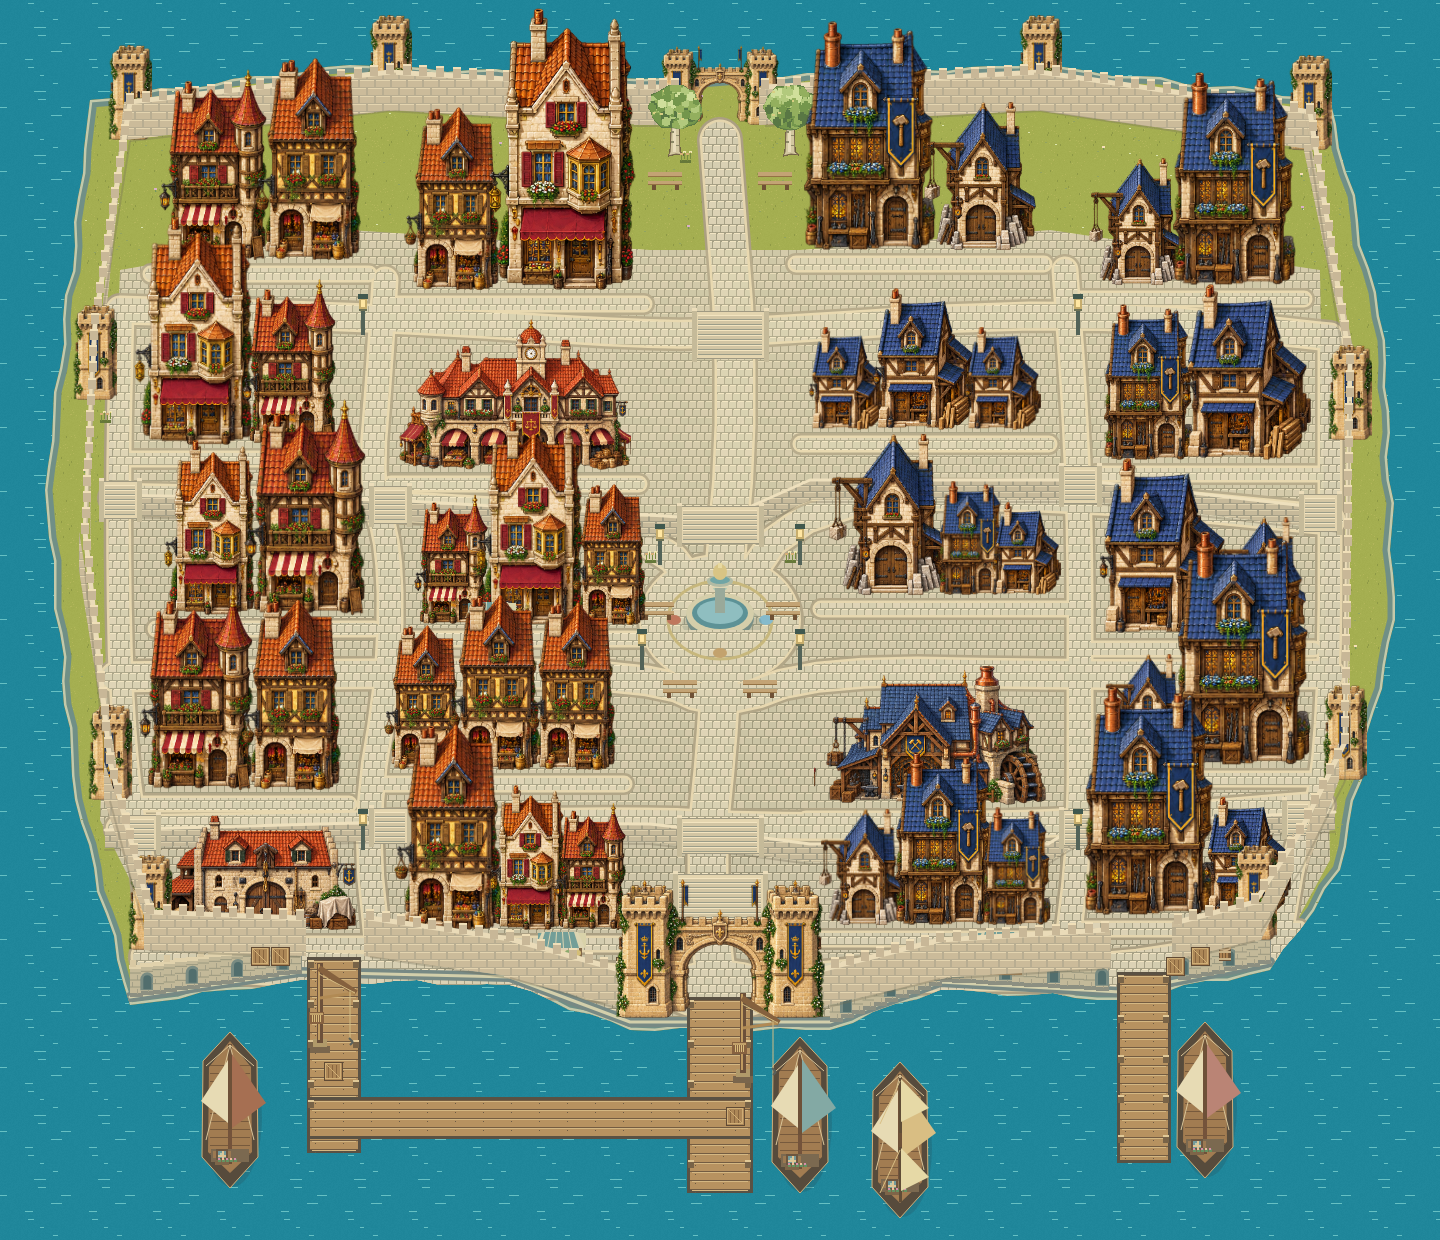
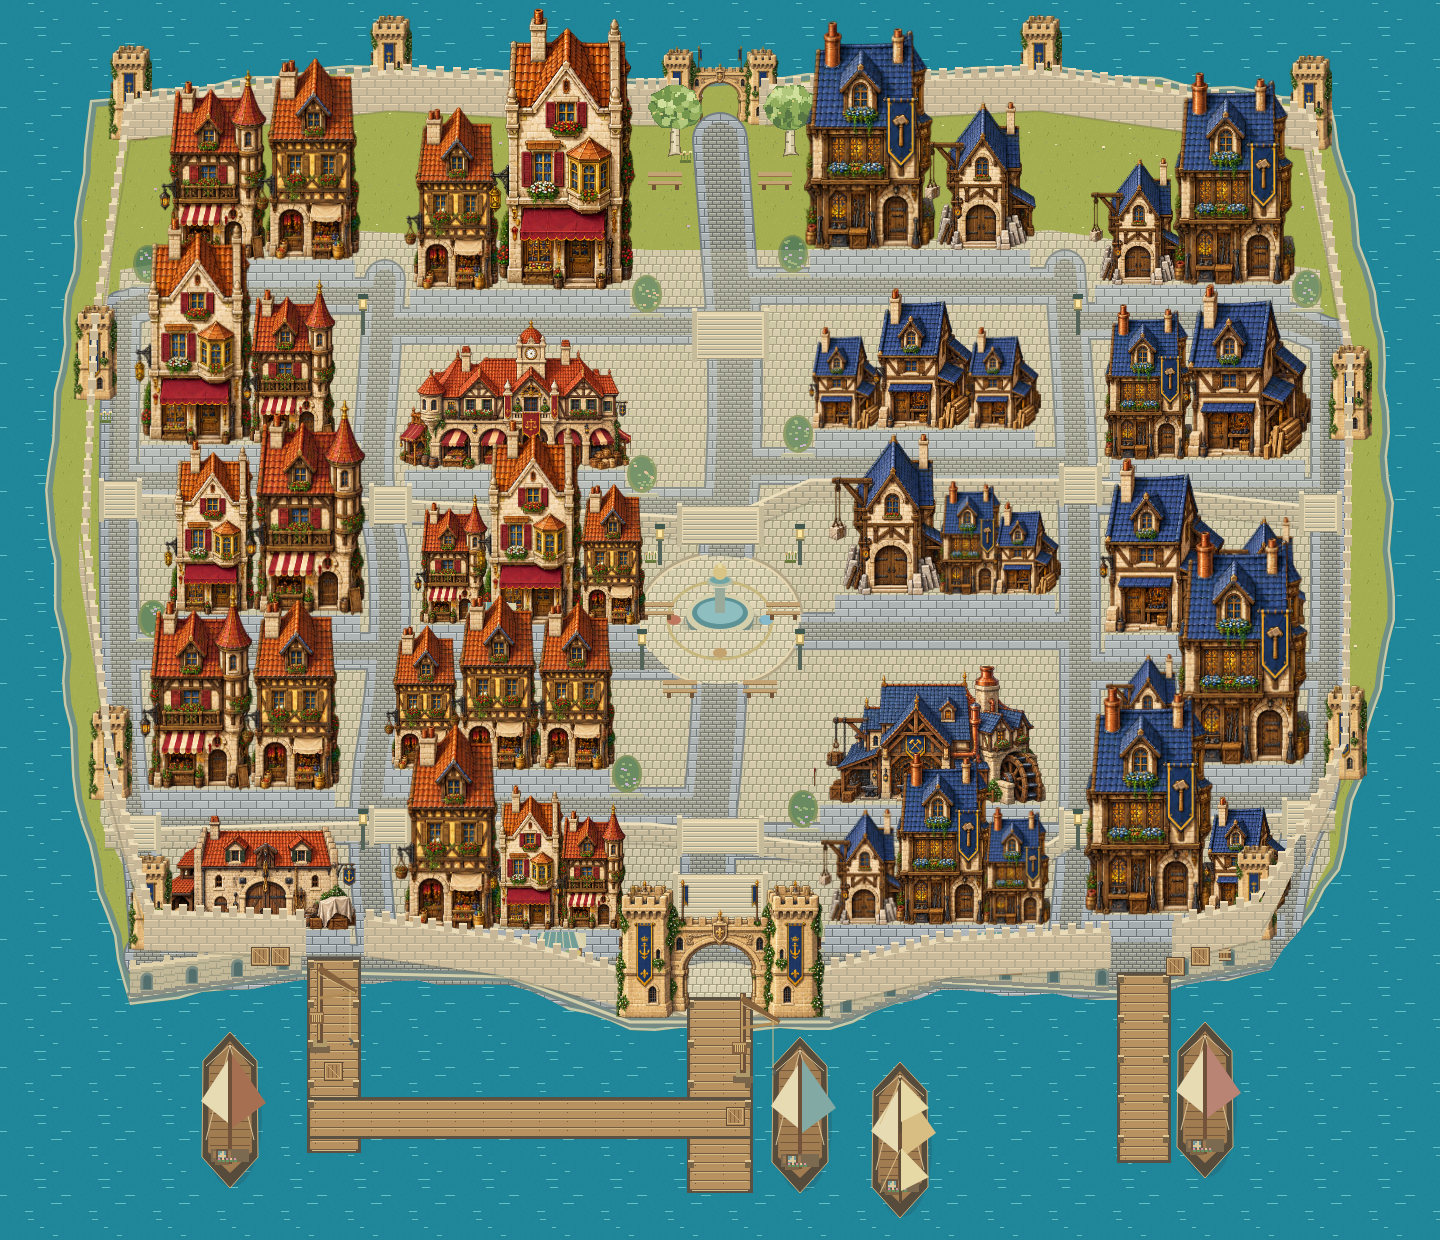
Connect port facades with cobbled streets and dressed grey sidewalks

diff --git a/src/world/exile-map.js b/src/world/exile-map.js
@@ -144,41 +144,6 @@ export const ROADS = [
     [740, 400],
     [720, 140],
   ]),
-  road("rue-du-premier-accueil", 24, [
-    [120, 310],
-    [390, 318],
-    [650, 335],
-    [730, 333],
-    [1080, 310],
-    [1330, 337],
-  ]),
-  road("rue-des-echoppes", 26, [
-    [115, 498],
-    [390, 505],
-    [645, 522],
-    [720, 620],
-    [805, 495],
-    [1080, 496],
-    [1330, 520],
-  ]),
-  road("rue-des-artisans", 26, [
-    [115, 677],
-    [390, 673],
-    [650, 675],
-    [720, 707],
-    [820, 670],
-    [1080, 675],
-    [1330, 674],
-  ]),
-  road("rue-des-voiles", 24, [
-    [120, 829],
-    [390, 824],
-    [650, 821],
-    [720, 825],
-    [825, 827],
-    [1080, 824],
-    [1320, 805],
-  ]),
   road("promenade-des-quais", 34, [
     [150, 957],
     [310, 970],
@@ -345,14 +310,54 @@ for (const [row, layout] of BLOCK_LAYOUT.entries())
       edge += w;
     }
     FRONTAGES.push(frontage);
-    // A short shared sidewalk opens at both ends into the neighboring alley.
-    ROADS.push(
-      road(`frontage-${row}-${block}`, 12, [
-        [left - 14, y + 14],
-        [edge + 14, y + 14],
-      ]),
-    );
+    // Each street follows its own facade setback and joins the two real alleys.
+    // No smoothing here: the endpoints must meet the existing street exactly.
+    const alleys = [
+      "ruelle-occidentale",
+      "passage-des-tisserands",
+      "avenue-du-refuge",
+      "passage-du-levant",
+      "ruelle-orientale",
+    ];
+    const streetY = y + 36;
+    const atY = (id) => {
+      const points = ROADS.find((r) => r.id === id).points;
+      for (let i = 1; i < points.length; i++) {
+        const a = points[i - 1],
+          b = points[i];
+        if (
+          streetY >= Math.min(a[1], b[1]) &&
+          streetY <= Math.max(a[1], b[1])
+        ) {
+          const t = (streetY - a[1]) / (b[1] - a[1]);
+          return [a[0] + (b[0] - a[0]) * t, streetY];
+        }
+      }
+      return points.reduce((a, b) =>
+        Math.abs(a[1] - streetY) < Math.abs(b[1] - streetY) ? a : b,
+      );
+    };
+    ROADS.push({
+      id: `frontage-${row}-${block}`,
+      width: 18,
+      points: [
+        atY(alleys[block]),
+        [left, streetY],
+        [edge, streetY],
+        atY(alleys[block + 1]),
+      ],
+    });
   }
+export const SIDEWALKS = BLOCK_LAYOUT.flatMap((row, r) =>
+  row.map((lot, b) => ({
+    id: `sidewalk-${r}-${b}`,
+    width: 24,
+    points: [
+      [lot.left, lot.y + 12],
+      [lot.left + lot.widths.reduce((a, b) => a + b, 0), lot.y + 12],
+    ],
+  })),
+);
 export const TOWN_FOUNTAIN = {
   id: "exile-fountain",
   kind: "exile-fountain",

diff --git a/tests/exile.test.js b/tests/exile.test.js
@@ -24,6 +24,7 @@ import {
   BUILDINGS,
   ENTRANCES,
   ROADS,
+  SIDEWALKS,
   EXILE_SPAWN,
   EXILE_RETURN,
   SERVICES,
@@ -432,4 +433,57 @@ test("Les habitants gardent une approche libre entre façades, escaliers et remp
     assert.ok(canWalkExile(p.x, p.y), p.id);
     assert.ok(canWalkExile(p.x, p.y + 16), `${p.id} : approche`);
   }
+});
+
+test("Chaque façade possède un trottoir jusqu’aux portes et une rue raccordée aux ruelles", () => {
+  for (const entrance of ENTRANCES) {
+    const apron = SIDEWALKS.find(
+      (s) =>
+        Math.abs(s.points[0][1] - entrance.y) < s.width / 2 &&
+        entrance.x >= s.points[0][0] &&
+        entrance.x <= s.points[1][0],
+    );
+    assert.ok(apron, entrance.id);
+  }
+  for (const street of ROADS.filter((r) => r.id.startsWith("frontage-"))) {
+    for (const endpoint of [street.points[0], street.points.at(-1)]) {
+      assert.ok(
+        ROADS.some(
+          (r) =>
+            !r.id.startsWith("frontage-") &&
+            r.points.slice(1).some((b, i) => {
+              const a = r.points[i],
+                dx = b[0] - a[0],
+                dy = b[1] - a[1];
+              const t = Math.max(
+                0,
+                Math.min(
+                  1,
+                  ((endpoint[0] - a[0]) * dx + (endpoint[1] - a[1]) * dy) /
+                    (dx * dx + dy * dy),
+                ),
+              );
+              return (
+                Math.hypot(
+                  endpoint[0] - a[0] - t * dx,
+                  endpoint[1] - a[1] - t * dy,
+                ) < 0.01
+              );
+            }),
+        ),
+        street.id,
+      );
+    }
+  }
+  for (const material of ["harbor-sidewalk", "harbor-cobbles"])
+    for (let i = 0; i < 64; i++) {
+      assert.deepEqual(
+        texturePixel(material, i, 0),
+        texturePixel(material, i, 64),
+      );
+      assert.deepEqual(
+        texturePixel(material, 0, i),
+        texturePixel(material, 64, i),
+      );
+    }
 });

diff --git a/src/rendering/exile.js b/src/rendering/exile.js
@@ -66,7 +66,9 @@ function path(g, r) {
 function plotGround(g) {
   const water = g.createPattern(tile("harbor-water"), "repeat"),
     grass = g.createPattern(tile("grass"), "repeat"),
-    pavers = g.createPattern(tile("pavers"), "repeat");
+    pavers = g.createPattern(tile("pavers"), "repeat"),
+    cobbles = g.createPattern(tile("harbor-cobbles"), "repeat"),
+    sidewalk = g.createPattern(tile("harbor-sidewalk"), "repeat");
   rect(g, 0, 0, map.MAP_SIZE.width, map.MAP_SIZE.height, water);
   poly(g, map.LAND, "#596e65");
   g.save();
@@ -91,16 +93,16 @@ function plotGround(g) {
   g.lineCap = g.lineJoin = "round";
   for (const r of map.ROADS) {
     path(g, r);
-    g.lineWidth = r.width + 10;
-    g.strokeStyle = "#ab9f82";
+    g.lineWidth = r.width + 20;
+    g.strokeStyle = "#747d80";
     g.stroke();
   }
   for (const p of map.PLAZAS)
     ellipse(g, p.x, p.y, p.rx + 5, p.ry + 5, "#ab9f82");
   for (const r of map.ROADS) {
     path(g, r);
-    g.lineWidth = r.width + 5;
-    g.strokeStyle = "#e5d5ad";
+    g.lineWidth = r.width + 16;
+    g.strokeStyle = sidewalk;
     g.stroke();
   }
   for (const p of map.PLAZAS)
@@ -108,9 +110,17 @@ function plotGround(g) {
   for (const r of map.ROADS) {
     path(g, r);
     g.lineWidth = r.width;
-    g.strokeStyle = pavers;
+    g.strokeStyle = cobbles;
     g.stroke();
   }
+  for (const r of map.SIDEWALKS) {
+    path(g, r);
+    g.lineCap = "butt";
+    g.lineWidth = r.width;
+    g.strokeStyle = sidewalk;
+    g.stroke();
+  }
+  g.lineCap = "round";
   for (const p of map.PLAZAS) ellipse(g, p.x, p.y, p.rx, p.ry, pavers);
   // Gardens, clover and flower beds are planted off every road and building apron.
   for (let i = 0; i < 2200; i++) {

diff --git a/src/rendering/textures.js b/src/rendering/textures.js
@@ -13,6 +13,14 @@ export function texturePixel(material, worldX, worldY) {
   const x = mod(worldX, TEXTURE_SIZE),
     y = mod(worldY, TEXTURE_SIZE),
     grain = hash(x, y, 7);
+  if (material === 'harbor-sidewalk' || material === 'harbor-cobbles') {
+    const slab = material === 'harbor-sidewalk', w = slab ? 16 : 8, h = slab ? 8 : 4;
+    const row = Math.floor(y / h), sx = (x + (row % 2) * w / 2) % w, sy = y % h;
+    const shade = hash(Math.floor((x + (row % 2) * w / 2) / w) % (64 / w), row, 73) % 9;
+    if (!sx || !sy) return slab ? [107,115,119,255] : [109,111,106,255];
+    if (sy === 1) return slab ? [203,208,209,255] : [188,187,171,255];
+    return slab ? [166+shade,174+shade,178+shade,255] : [149+shade,151+shade,139+shade,255];
+  }
   if(material==='harbor-stone'){
     const row=Math.floor(y/8),offset=(row%2)*4,sx=(x+offset)%8,sy=y%8,h=hash(Math.floor((x+offset)/8)%8,row,32)%4;
     if(sx===0||sy===0||(sx===1&&sy===1))return [166,160,133,255];

diff --git a/src/game/exile.js b/src/game/exile.js
@@ -8,7 +8,7 @@ export function createExileWorld() {
   const bots = [];
   for (let i = 0; i < 16; i++) {
     const road = ROADS[i % ROADS.length];
-    let index = 2 + (i % (road.points.length - 4));
+    let index = i % road.points.length;
     for (let offset = 0; offset < road.points.length; offset++) {
       const candidate = (index + offset) % road.points.length,
         p = road.points[candidate];

diff --git a/GAME_DESIGN.md b/GAME_DESIGN.md
@@ -824,3 +824,7 @@ La ville conserve ses bâtiments et son emprise compacte. Les vingt îlots sont 
 Des courtines crénelées et dix tours suivent le littoral ; elles se raccordent à la porte du port et à une nouvelle porte nord. Les trois accès aux pontons restent ouverts. La variante de tour reprend la texture de la porte existante. Les lignes des remparts sont utilisées pour les collisions et le dessin ; les remparts devant le joueur s’estompent comme les bâtiments.
 
 Deux fronts de terrasse créent trois niveaux : port (0), terrasse intermédiaire (+18), ville haute (+38). Les faces sont infranchissables, sauf au droit des dix escaliers définis dans les mêmes données. Les alliés partagent ces collisions et les contournent par les escaliers. Le plan local montre murs, niveaux et passages. Les PNJ conservent un espace d’approche libre devant leurs commerces ; les promeneurs commencent sur un point praticable du nouveau réseau.
+
+### Voirie du Comptoir
+
+Les rues pavées suivent les retraits propres à chaque façade et rejoignent les ruelles latérales. Des trottoirs continus en pierre taillée grise desservent chaque entrée. Les textures se répètent dans les coordonnées du monde pour éviter les raccords visibles aux intersections. La place de la fontaine conserve son dallage et sa mosaïque. Les escaliers restent les passages entre les terrasses.
